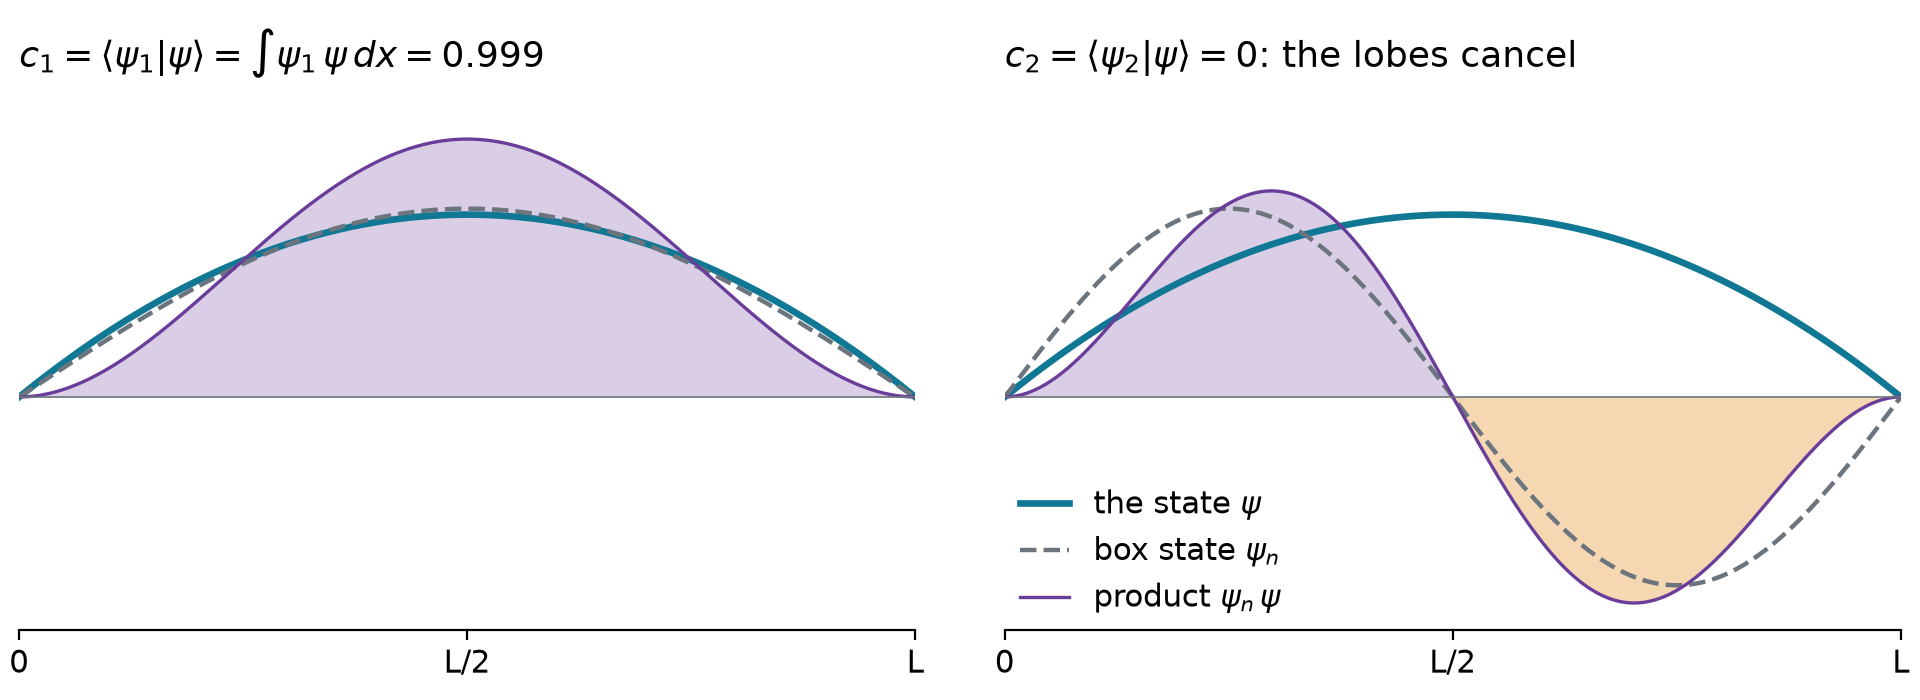
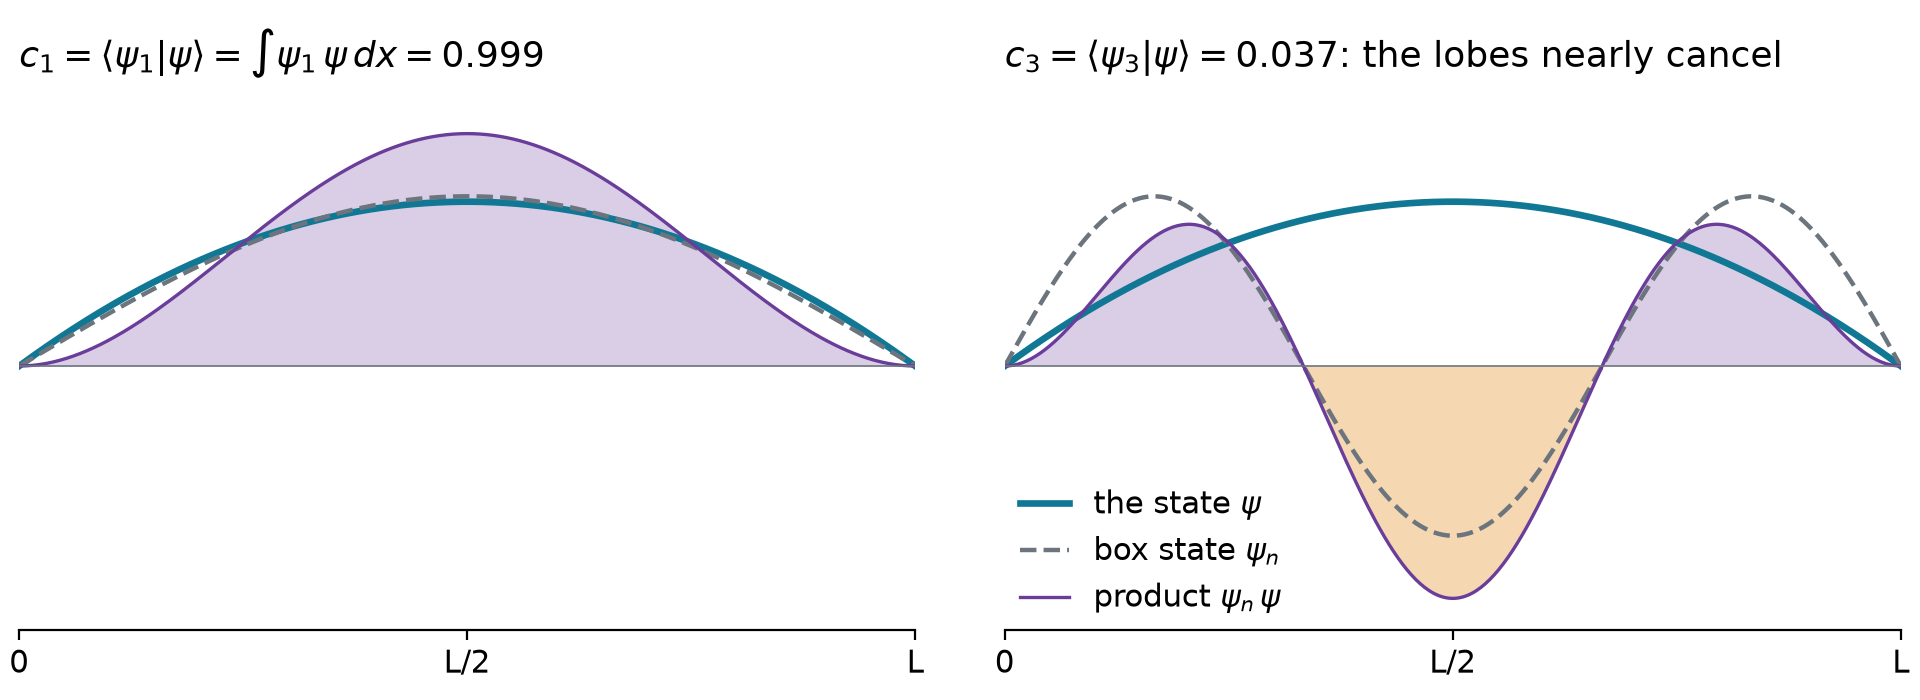
'superpos'

diff --git a/scripts/make_ch03_animations.py b/scripts/make_ch03_animations.py
@@ -2626,7 +2626,7 @@ def function_projection():
     x = np.linspace(0, 1, 400)
     psi = np.sqrt(30) * x * (1 - x)                             # the state of the worked example, L = 1
     fig, axs = plt.subplots(1, 2, figsize=(9.6, 3.5), gridspec_kw={"wspace": 0.1})
-    for ax, n in zip(axs, (1, 2)):
+    for ax, n in zip(axs, (1, 3)):                              # n = 2 is zero by symmetry (see the Example)
         phi = np.sqrt(2) * np.sin(n * np.pi * x)
         prod = phi * psi
         c = np.trapezoid(prod, x)
@@ -2636,11 +2636,11 @@ def function_projection():
         ax.plot(x, phi, color=GRAY, lw=1.6, ls="--", label=r"box state $\psi_n$")
         ax.plot(x, prod, color=PURPLE, lw=1.2, label=r"product $\psi_n\,\psi$")
         ax.axhline(0, color=GRAY, lw=0.6)
-        ax.set_xlim(0, 1); ax.set_ylim(-1.75, 2.35); ax.set_yticks([])
+        ax.set_xlim(0, 1); ax.set_ylim(-2.2, 2.35); ax.set_yticks([])
         ax.set_xticks([0, 0.5, 1]); ax.set_xticklabels(["0", "L/2", "L"], fontsize=11)
         ax.spines["left"].set_visible(False)
-        ax.set_title(rf"$c_1 = \langle\psi_1|\psi\rangle = \int\psi_1\,\psi\,dx = {abs(c):.3f}$" if n == 1
-                     else r"$c_2 = \langle\psi_2|\psi\rangle = 0$: the lobes cancel", loc="left", fontsize=13)
+        ax.set_title(rf"$c_1 = \langle\psi_1|\psi\rangle = \int\psi_1\,\psi\,dx = {c:.3f}$" if n == 1
+                     else rf"$c_3 = \langle\psi_3|\psi\rangle = {c:.3f}$: the lobes nearly cancel", loc="left", fontsize=13)
     axs[1].legend(loc="lower left", frameon=False, fontsize=11, handlelength=1.6, borderaxespad=0.1)
     fig.subplots_adjust(left=0.01, right=0.99, top=0.88, bottom=0.1)
     fig.savefig(f"{OUT}/function_projection.png", dpi=200)
@@ -2826,26 +2826,48 @@ def collapse():
     return fig, None
 
 
-# ------------------------------------------------------------ momentum of a box state: two humps near +-n pi hbar/L, never one sharp value (still)
+# ------------------------------------------------------------ box state vs Gaussian packet: the state, its energy readings, its momentum readings (still)
 @register
 def box_momentum():
     plt.rcParams.update({"axes.spines.top": False, "axes.spines.right": False})
     x = np.linspace(0, 1, 2000)                                 # L = hbar = 1: p in units of pi hbar / L
-    p = np.linspace(-8, 8, 800)
+    p = np.linspace(-10, 10, 1000)
     kern = np.exp(-1j * np.outer(p * np.pi, x)) / np.sqrt(2 * np.pi)
-    fig, axs = plt.subplots(3, 1, figsize=(8, 4.6), sharex=True, gridspec_kw={"hspace": 0.45})
-    for ax, n, col in zip(axs, (1, 2, 5), (TEAL, PURPLE, CARDINAL)):
-        amp = np.trapezoid(kern * np.sqrt(2) * np.sin(n * np.pi * x), x, axis=1)
-        dens = np.abs(amp)**2 * np.pi                           # density per unit of p / (pi hbar / L)
-        ax.fill_between(p, dens, color=col, alpha=0.2, lw=0); ax.plot(p, dens, color=col, lw=2.2)
-        for s in (-n, n):
-            ax.axvline(s, color=GRAY, lw=1, ls="--")
-        ax.set_yticks([]); ax.spines["left"].set_visible(False)
-        ax.set_ylim(0, 1.15 * dens.max())
-        ax.set_title(rf"$n = {n}$:  dashed lines at $p = \pm\sqrt{{2mE_{n}}} = \pm {n}\,\pi\hbar/L$", loc="left", fontsize=12)
-    axs[-1].set_xlabel(r"momentum $p$  (units of $\pi\hbar/L$)", fontsize=12)
-    axs[-1].tick_params(labelsize=11)
-    fig.subplots_adjust(left=0.03, right=0.98, top=0.93, bottom=0.12)
+    ns = np.arange(1, 11)
+    phis = np.sqrt(2) * np.sin(np.outer(ns, np.pi * x))
+    packet = np.exp(-(x - 0.5)**2 / (4 * 0.1**2)) * np.exp(1j * 5 * np.pi * x)   # |psi|^2 of width 0.1 L, p0 = 5 pi hbar / L
+    packet = packet / np.sqrt(np.trapezoid(np.abs(packet)**2, x))
+    rows = [(phis[4].astype(complex), r"box state $\psi_5$", r"energy: one value, sharp", "momentum: two humps, not sharp"),
+            (packet, "Gaussian packet, moving right", "energy: many values, spread", "momentum: one hump, moving right")]
+    fig, axs = plt.subplots(2, 3, figsize=(10, 4.9), gridspec_kw={"width_ratios": [1, 0.85, 1.1], "hspace": 0.62, "wspace": 0.22})
+    for r, (psi, name, e_note, p_note) in enumerate(rows):
+        axs_, axe, axp = axs[r]
+        dens = np.abs(psi)**2
+        axs_.fill_between(x, dens, color=CARDINAL, alpha=0.16, lw=0); axs_.plot(x, dens, color=CARDINAL, lw=1.4)
+        axs_.plot(x, psi.real, color=TEAL, lw=2.2, label=r"Re $\psi$")
+        axs_.axhline(0, color=GRAY, lw=0.6)
+        axs_.set_xlim(0, 1); axs_.set_ylim(-2.3, 4.4); axs_.set_yticks([]); axs_.spines["left"].set_visible(False)
+        axs_.set_xticks([0, 0.5, 1]); axs_.set_xticklabels(["0", "L/2", "L"], fontsize=11)
+        axs_.set_title(name, loc="left", fontsize=12.5)
+        c2 = np.abs(np.trapezoid(phis * psi, x, axis=1))**2
+        axe.bar(ns, c2, color=PURPLE, width=0.7)
+        axe.set_xlim(0.3, 10.7); axe.set_ylim(0, 1.12); axe.set_yticks([0, 0.5, 1]); axe.tick_params(labelsize=10.5)
+        axe.set_xticks([1, 5, 10])
+        axe.set_title(e_note, loc="left", fontsize=12.5)
+        amp = np.trapezoid(kern * psi, x, axis=1)
+        pd = np.abs(amp)**2 * np.pi                             # density per unit of p / (pi hbar / L)
+        axp.fill_between(p, pd, color=ORANGE, alpha=0.25, lw=0); axp.plot(p, pd, color=ORANGE, lw=2.2)
+        for sgn in (-5, 5):
+            axp.axvline(sgn, color=GRAY, lw=1, ls="--")
+        axp.set_xlim(-10, 10); axp.set_ylim(0, 1.25 * pd.max()); axp.set_yticks([]); axp.spines["left"].set_visible(False)
+        axp.set_xticks([-10, -5, 0, 5, 10]); axp.tick_params(labelsize=10.5)
+        axp.set_title(p_note, loc="left", fontsize=12.5)
+    axs[1, 0].plot([], [], color=CARDINAL, lw=1.4, label=r"$|\psi|^2$")
+    axs[1, 0].legend(loc="upper left", frameon=False, fontsize=11, handlelength=1.4, borderaxespad=0.1)
+    axs[1, 0].set_xlabel(r"position $x$", fontsize=11.5)
+    axs[1, 1].set_xlabel(r"level $n$  ($E_n = n^2E_1$)", fontsize=11.5)
+    axs[1, 2].set_xlabel(r"momentum $p$  (units of $\pi\hbar/L$)", fontsize=11.5)
+    fig.subplots_adjust(left=0.02, right=0.99, top=0.93, bottom=0.11)
     fig.savefig(f"{OUT}/box_momentum.png", dpi=200)
     print("wrote", f"{OUT}/box_momentum.png")
     return fig, None
@@ -2870,11 +2892,11 @@ def uncertainty_tradeoff():
     axu.fill_between(dx, 0.04, 0.5 / dx, color=GRAY, alpha=0.25, lw=0)
     axu.plot(dx, 0.5 / dx, color="k", lw=1.6)
     axu.plot(dx, 0.568 / dx, color=PURPLE, lw=1.4, ls="--")
-    axu.text(0.1, 0.35, "forbidden:\n" + r"$\Delta x\,\Delta p < \hbar/2$", fontsize=11, color=GRAY, va="bottom")
-    (gdot,) = axu.plot([], [], "o", color=TEAL, ms=10, zorder=5, label=r"Gaussian: $\Delta x\Delta p = 0.50\,\hbar$")
+    axu.text(0.1, 0.35, "forbidden:\n" + r"$\sigma_x\sigma_p < \hbar/2$", fontsize=11, color=GRAY, va="bottom")
+    (gdot,) = axu.plot([], [], "o", color=TEAL, ms=10, zorder=5, label=r"Gaussian: $\sigma_x\sigma_p = 0.50\,\hbar$")
     (bdot,) = axu.plot([], [], "s", color=PURPLE, ms=9, zorder=5, label=r"box ground state: $0.57\,\hbar$")
     axu.set_xscale("log"); axu.set_yscale("log"); axu.set_xlim(0.08, 3); axu.set_ylim(0.04, 12)
-    axu.set_xlabel(r"$\Delta x$", fontsize=12); axu.set_ylabel(r"$\Delta p$", fontsize=12); axu.tick_params(labelsize=10)
+    axu.set_xlabel(r"$\sigma_x$", fontsize=12); axu.set_ylabel(r"$\sigma_p$", fontsize=12); axu.tick_params(labelsize=10)
     axu.legend(loc="upper right", frameon=False, fontsize=10.5, handletextpad=0.3, borderaxespad=0.1)
     fig.subplots_adjust(left=0.02, right=0.98, top=0.86, bottom=0.17)
 
@@ -2884,10 +2906,10 @@ def uncertainty_tradeoff():
         rp = np.exp(-x**2 / (2 * sp**2)) / np.sqrt(2 * np.pi * sp**2)
         lx.set_data(x, rx); bx[0].remove(); bx[0] = axx.fill_between(x, rx, color=TEAL, alpha=0.2, lw=0)
         lp.set_data(x, rp); bp[0].remove(); bp[0] = axp.fill_between(x, rp, color=CARDINAL, alpha=0.2, lw=0)
-        axx.set_title(rf"$|\psi(x)|^2$:  $\Delta x = {s:.2f}$", loc="left", fontsize=12.5)
-        axp.set_title(rf"$|\phi(p)|^2$:  $\Delta p = {sp:.2f}$", loc="left", fontsize=12.5)
+        axx.set_title(rf"$|\psi(x)|^2$:  $\sigma_x = {s:.2f}$", loc="left", fontsize=12.5)
+        axp.set_title(rf"$|\phi(p)|^2$:  $\sigma_p = {sp:.2f}$", loc="left", fontsize=12.5)
         gdot.set_data([s], [sp]); bdot.set_data([s], [0.568 / s])
-        axu.set_title(rf"$\Delta x\,\Delta p = {s * sp:.2f}\,\hbar$", loc="left", fontsize=12.5)
+        axu.set_title(rf"$\sigma_x\sigma_p = {s * sp:.2f}\,\hbar$", loc="left", fontsize=12.5)
 
     ani = FuncAnimation(fig, update, frames=nf, interval=120, blit=False)
     return fig, ani

diff --git a/ch03/06-eigenvalues-and-expectation.md b/ch03/06-eigenvalues-and-expectation.md
@@ -113,7 +113,7 @@ plt.rcParams.update({"axes.spines.top": False, "axes.spines.right": False})
 x = np.linspace(0, 1, 400)
 psi = np.sqrt(30) * x * (1 - x)                             # the state of the worked example, L = 1
 fig, axs = plt.subplots(1, 2, figsize=(9.6, 3.5), gridspec_kw={"wspace": 0.1})
-for ax, n in zip(axs, (1, 2)):
+for ax, n in zip(axs, (1, 3)):                              # n = 2 is zero by symmetry (see the Example)
     phi = np.sqrt(2) * np.sin(n * np.pi * x)
     prod = phi * psi
     c = np.trapezoid(prod, x)
@@ -123,17 +123,19 @@ for ax, n in zip(axs, (1, 2)):
     ax.plot(x, phi, color=GRAY, lw=1.6, ls="--", label=r"box state $\psi_n$")
     ax.plot(x, prod, color=PURPLE, lw=1.2, label=r"product $\psi_n\,\psi$")
     ax.axhline(0, color=GRAY, lw=0.6)
-    ax.set_xlim(0, 1); ax.set_ylim(-1.75, 2.35); ax.set_yticks([])
+    ax.set_xlim(0, 1); ax.set_ylim(-2.2, 2.35); ax.set_yticks([])
     ax.set_xticks([0, 0.5, 1]); ax.set_xticklabels(["0", "L/2", "L"], fontsize=11)
     ax.spines["left"].set_visible(False)
-    ax.set_title(rf"$c_1 = \langle\psi_1|\psi\rangle = \int\psi_1\,\psi\,dx = {abs(c):.3f}$" if n == 1
-                 else r"$c_2 = \langle\psi_2|\psi\rangle = 0$: the lobes cancel", loc="left", fontsize=13)
+    ax.set_title(rf"$c_1 = \langle\psi_1|\psi\rangle = \int\psi_1\,\psi\,dx = {c:.3f}$" if n == 1
+                 else rf"$c_3 = \langle\psi_3|\psi\rangle = {c:.3f}$: the lobes nearly cancel", loc="left", fontsize=13)
 axs[1].legend(loc="lower left", frameon=False, fontsize=11, handlelength=1.6, borderaxespad=0.1)
 fig.subplots_adjust(left=0.01, right=0.99, top=0.88, bottom=0.1)
 plt.show()
 ```
 
-Fig. The state $\psi = \sqrt{30}\,x(1-x)$ in a box with $L = 1$, projected onto the first two box states. Each coefficient $c_n = \langle \psi_n \vert \psi\rangle$ is the area under the product $\psi_n\psi$: almost 1 for $n = 1$, and exactly 0 for $n = 2$, where the positive and negative lobes cancel.
+Fig. The state $\psi = \sqrt{30}\,x(1-x)$ in a box with $L = 1$, projected onto two box states. Each coefficient $c_n = \langle \psi_n \vert \psi\rangle$ is the area under the product $\psi_n\psi$, purple where it is positive and orange where it is negative. Left: $\psi$ and $\psi_1$ nearly coincide, and $c_1 = 0.999$. Right: the three lobes of $\psi_3\psi$ almost cancel, leaving $c_3 = 0.037$.
+
+- How large is 0.999? Squared components add up to the length squared, for the arrow ($c_1^2 + c_2^2 = 3^2 + 1.5^2 = \langle v \vert v\rangle$) and for the function ($\sum_n \lvert c_n\rvert^2 = \langle \psi \vert \psi\rangle$, shown below). A normalized state has length 1, so no coefficient can exceed 1 in size, and $c_1 = 1$ would mean $\psi = \psi_1$. Here $\lvert c_1\rvert^2 = 0.9986$ leaves only $0.0014$ for all the other box states together: the parabola is almost exactly the ground state, which is why the two curves in the left panel nearly coincide.
 
 - Side by side, the vector and the function follow one structure. Only the last row, how a bracket is computed, differs:
 
@@ -173,7 +175,7 @@ $$
 \lvert c_1\rvert^2 = \frac{960}{\pi^6} = 0.9986, \qquad \lvert c_3\rvert^2 = \frac{960}{729\,\pi^6} = 0.0014, \qquad \lvert c_5\rvert^2 = 0.0001
 $$
 
-The parabola is 99.86 percent ground state: the state and the box state in the left panel of the figure above are almost indistinguishable.
+The parabola is 99.86 percent ground state, and $c_3 = 8\sqrt{15}/(3\pi)^3 = 0.037$ is the small coefficient in the right panel of the figure above.
 
 :::
 
@@ -247,9 +249,9 @@ $$
 $$
 
 - Only the size of each coefficient matters for these probabilities. The coefficients $c_n$ and $c_n e^{i\theta}$ give the same $p_n$; the phases come back in [Time Dependence](07-time-dependence.md).
-- A measurement does not reveal $\psi$. It returns one number, and it changes the state (below). The probabilities show up only in the statistics of many **identically prepared copies**, just as $\lvert\psi(x)\rvert^2$ showed up in the pattern of many single detections in [The Schrödinger Equation](01-schrodinger-equation.md).
+- A measurement does not reveal $\psi$. It returns one number, and it changes the state (below). The probabilities show up only in the statistics of many **identically prepared copies**: many boxes, each holding one particle prepared in the same state $\psi$, each measured once. Measuring one particle over and over does not work, because the first reading changes its state. It is the same story as the single detections that built up the pattern $\lvert\psi(x)\rvert^2$ in [The Schrödinger Equation](01-schrodinger-equation.md). Chemistry gets its copies for free: a spectrum is recorded on a sample of something like $10^{20}$ molecules, and each molecule contributes its own reading.
 
-Try it: pick a state, measure one copy at a time, then a thousand. Every reading is one of the energies $E_n = n^2E_1$ of the box, never anything in between. The bars approach $\lvert c_n\rvert^2$ and the running mean approaches a value we compute next.
+Try it: pick a state and press **+1 box** a few times. Each press prepares a fresh box in that state and measures its energy once; after a single reading, **measure it again** reads the same box a second time. Then add a thousand boxes. Every reading is one of the energies $E_n = n^2E_1$ of the box, never anything in between. The bars approach $\lvert c_n\rvert^2$ and the running mean approaches a value we compute next.
 
 ```{anywidget} ../widgets/measure_energy.mjs
 {"state": "example"}
@@ -388,7 +390,7 @@ Fig. One energy measurement on the superposition of the example. Before: three p
 ### Compatible and incompatible observables
 
 - If $[\hat{A},\hat{B}] = 0$, the two operators share eigenfunctions ([Operators 2](05-hermitian-operators-and-commutators.md)). A reading of $a_n$ leaves the system in a shared eigenfunction, so $B$ is sharp too, and measuring $B$ does not disturb the value of $A$. Such observables are **compatible**: energy and momentum of a free particle, or $\hat{H}$, $\hat{L}^2$ and $\hat{L}_z$ for hydrogen.
-- If they do not commute, a state with a sharp value of one has a spread in the other. The box states have sharp energies; their momenta are not sharp:
+- If they do not commute, a state with a sharp value of one has a spread in the other. In a box, $\hat{H}$ and $\hat{p}$ share no eigenfunctions: the eigenfunctions $e^{ipx/\hbar}$ of $\hat{p}$ do not vanish at the walls. Compare two states, each with its energy and momentum readings. A box state has a sharp energy; a Gaussian packet has a definite direction of motion:
 
 ```{code-cell} python
 :tags: [hide-input]
@@ -401,25 +403,47 @@ from IPython.display import HTML
 TEAL, CARDINAL, GRAY, PURPLE, ORANGE = "#107895", "#C8102E", "#6c757d", "#6a3d9a", "#e07b00"
 plt.rcParams.update({"axes.spines.top": False, "axes.spines.right": False})
 x = np.linspace(0, 1, 2000)                                 # L = hbar = 1: p in units of pi hbar / L
-p = np.linspace(-8, 8, 800)
+p = np.linspace(-10, 10, 1000)
 kern = np.exp(-1j * np.outer(p * np.pi, x)) / np.sqrt(2 * np.pi)
-fig, axs = plt.subplots(3, 1, figsize=(8, 4.6), sharex=True, gridspec_kw={"hspace": 0.45})
-for ax, n, col in zip(axs, (1, 2, 5), (TEAL, PURPLE, CARDINAL)):
-    amp = np.trapezoid(kern * np.sqrt(2) * np.sin(n * np.pi * x), x, axis=1)
-    dens = np.abs(amp)**2 * np.pi                           # density per unit of p / (pi hbar / L)
-    ax.fill_between(p, dens, color=col, alpha=0.2, lw=0); ax.plot(p, dens, color=col, lw=2.2)
-    for s in (-n, n):
-        ax.axvline(s, color=GRAY, lw=1, ls="--")
-    ax.set_yticks([]); ax.spines["left"].set_visible(False)
-    ax.set_ylim(0, 1.15 * dens.max())
-    ax.set_title(rf"$n = {n}$:  dashed lines at $p = \pm\sqrt{{2mE_{n}}} = \pm {n}\,\pi\hbar/L$", loc="left", fontsize=12)
-axs[-1].set_xlabel(r"momentum $p$  (units of $\pi\hbar/L$)", fontsize=12)
-axs[-1].tick_params(labelsize=11)
-fig.subplots_adjust(left=0.03, right=0.98, top=0.93, bottom=0.12)
+ns = np.arange(1, 11)
+phis = np.sqrt(2) * np.sin(np.outer(ns, np.pi * x))
+packet = np.exp(-(x - 0.5)**2 / (4 * 0.1**2)) * np.exp(1j * 5 * np.pi * x)   # |psi|^2 of width 0.1 L, p0 = 5 pi hbar / L
+packet = packet / np.sqrt(np.trapezoid(np.abs(packet)**2, x))
+rows = [(phis[4].astype(complex), r"box state $\psi_5$", r"energy: one value, sharp", "momentum: two humps, not sharp"),
+        (packet, "Gaussian packet, moving right", "energy: many values, spread", "momentum: one hump, moving right")]
+fig, axs = plt.subplots(2, 3, figsize=(10, 4.9), gridspec_kw={"width_ratios": [1, 0.85, 1.1], "hspace": 0.62, "wspace": 0.22})
+for r, (psi, name, e_note, p_note) in enumerate(rows):
+    axs_, axe, axp = axs[r]
+    dens = np.abs(psi)**2
+    axs_.fill_between(x, dens, color=CARDINAL, alpha=0.16, lw=0); axs_.plot(x, dens, color=CARDINAL, lw=1.4)
+    axs_.plot(x, psi.real, color=TEAL, lw=2.2, label=r"Re $\psi$")
+    axs_.axhline(0, color=GRAY, lw=0.6)
+    axs_.set_xlim(0, 1); axs_.set_ylim(-2.3, 4.4); axs_.set_yticks([]); axs_.spines["left"].set_visible(False)
+    axs_.set_xticks([0, 0.5, 1]); axs_.set_xticklabels(["0", "L/2", "L"], fontsize=11)
+    axs_.set_title(name, loc="left", fontsize=12.5)
+    c2 = np.abs(np.trapezoid(phis * psi, x, axis=1))**2
+    axe.bar(ns, c2, color=PURPLE, width=0.7)
+    axe.set_xlim(0.3, 10.7); axe.set_ylim(0, 1.12); axe.set_yticks([0, 0.5, 1]); axe.tick_params(labelsize=10.5)
+    axe.set_xticks([1, 5, 10])
+    axe.set_title(e_note, loc="left", fontsize=12.5)
+    amp = np.trapezoid(kern * psi, x, axis=1)
+    pd = np.abs(amp)**2 * np.pi                             # density per unit of p / (pi hbar / L)
+    axp.fill_between(p, pd, color=ORANGE, alpha=0.25, lw=0); axp.plot(p, pd, color=ORANGE, lw=2.2)
+    for sgn in (-5, 5):
+        axp.axvline(sgn, color=GRAY, lw=1, ls="--")
+    axp.set_xlim(-10, 10); axp.set_ylim(0, 1.25 * pd.max()); axp.set_yticks([]); axp.spines["left"].set_visible(False)
+    axp.set_xticks([-10, -5, 0, 5, 10]); axp.tick_params(labelsize=10.5)
+    axp.set_title(p_note, loc="left", fontsize=12.5)
+axs[1, 0].plot([], [], color=CARDINAL, lw=1.4, label=r"$|\psi|^2$")
+axs[1, 0].legend(loc="upper left", frameon=False, fontsize=11, handlelength=1.4, borderaxespad=0.1)
+axs[1, 0].set_xlabel(r"position $x$", fontsize=11.5)
+axs[1, 1].set_xlabel(r"level $n$  ($E_n = n^2E_1$)", fontsize=11.5)
+axs[1, 2].set_xlabel(r"momentum $p$  (units of $\pi\hbar/L$)", fontsize=11.5)
+fig.subplots_adjust(left=0.02, right=0.99, top=0.93, bottom=0.11)
 plt.show()
 ```
 
-Fig. Momentum distributions of three particle-in-a-box states. The sine is half a wave moving right and half moving left, $\sin kx = (e^{ikx} - e^{-ikx})/2i$, so the distribution has humps near $p = \pm n\pi\hbar/L = \pm\sqrt{2mE_n}$. The walls cut the wave off after a length $L$, which broadens each hump by about $h/L$. For $n = 1$ the two humps merge into one.
+Fig. Two states in a box, each with its energy and momentum readings. Top: the box state $\psi_5$ gives one energy, $25E_1$, every time. Its momentum readings fall in two humps near $p = \pm\sqrt{2mE_5} = \pm 5\pi\hbar/L$ (dashed), because the sine is half a wave moving right and half moving left, $\sin kx = (e^{ikx} - e^{-ikx})/2i$; the walls cut the wave off after a length $L$, which broadens each hump by about $h/L$. Bottom: a Gaussian packet moving right at about the same speed. Its momentum readings form one hump on the positive side, but its energy readings spread over several levels. Neither state is sharp in both.
 
 - How much spread the commutator forces is the **uncertainty principle**, the general form of the relation met in [Chapter 1](../ch01/04-wave-particle-duality.md):
 
@@ -460,11 +484,11 @@ dx = np.geomspace(0.08, 3, 200)
 axu.fill_between(dx, 0.04, 0.5 / dx, color=GRAY, alpha=0.25, lw=0)
 axu.plot(dx, 0.5 / dx, color="k", lw=1.6)
 axu.plot(dx, 0.568 / dx, color=PURPLE, lw=1.4, ls="--")
-axu.text(0.1, 0.35, "forbidden:\n" + r"$\Delta x\,\Delta p < \hbar/2$", fontsize=11, color=GRAY, va="bottom")
-(gdot,) = axu.plot([], [], "o", color=TEAL, ms=10, zorder=5, label=r"Gaussian: $\Delta x\Delta p = 0.50\,\hbar$")
+axu.text(0.1, 0.35, "forbidden:\n" + r"$\sigma_x\sigma_p < \hbar/2$", fontsize=11, color=GRAY, va="bottom")
+(gdot,) = axu.plot([], [], "o", color=TEAL, ms=10, zorder=5, label=r"Gaussian: $\sigma_x\sigma_p = 0.50\,\hbar$")
 (bdot,) = axu.plot([], [], "s", color=PURPLE, ms=9, zorder=5, label=r"box ground state: $0.57\,\hbar$")
 axu.set_xscale("log"); axu.set_yscale("log"); axu.set_xlim(0.08, 3); axu.set_ylim(0.04, 12)
-axu.set_xlabel(r"$\Delta x$", fontsize=12); axu.set_ylabel(r"$\Delta p$", fontsize=12); axu.tick_params(labelsize=10)
+axu.set_xlabel(r"$\sigma_x$", fontsize=12); axu.set_ylabel(r"$\sigma_p$", fontsize=12); axu.tick_params(labelsize=10)
 axu.legend(loc="upper right", frameon=False, fontsize=10.5, handletextpad=0.3, borderaxespad=0.1)
 fig.subplots_adjust(left=0.02, right=0.98, top=0.86, bottom=0.17)
 
@@ -474,10 +498,10 @@ def update(i):
     rp = np.exp(-x**2 / (2 * sp**2)) / np.sqrt(2 * np.pi * sp**2)
     lx.set_data(x, rx); bx[0].remove(); bx[0] = axx.fill_between(x, rx, color=TEAL, alpha=0.2, lw=0)
     lp.set_data(x, rp); bp[0].remove(); bp[0] = axp.fill_between(x, rp, color=CARDINAL, alpha=0.2, lw=0)
-    axx.set_title(rf"$|\psi(x)|^2$:  $\Delta x = {s:.2f}$", loc="left", fontsize=12.5)
-    axp.set_title(rf"$|\phi(p)|^2$:  $\Delta p = {sp:.2f}$", loc="left", fontsize=12.5)
+    axx.set_title(rf"$|\psi(x)|^2$:  $\sigma_x = {s:.2f}$", loc="left", fontsize=12.5)
+    axp.set_title(rf"$|\phi(p)|^2$:  $\sigma_p = {sp:.2f}$", loc="left", fontsize=12.5)
     gdot.set_data([s], [sp]); bdot.set_data([s], [0.568 / s])
-    axu.set_title(rf"$\Delta x\,\Delta p = {s * sp:.2f}\,\hbar$", loc="left", fontsize=12.5)
+    axu.set_title(rf"$\sigma_x\sigma_p = {s * sp:.2f}\,\hbar$", loc="left", fontsize=12.5)
 
 ani = FuncAnimation(fig, update, frames=nf, interval=120, blit=False)
 plt.close(fig)
